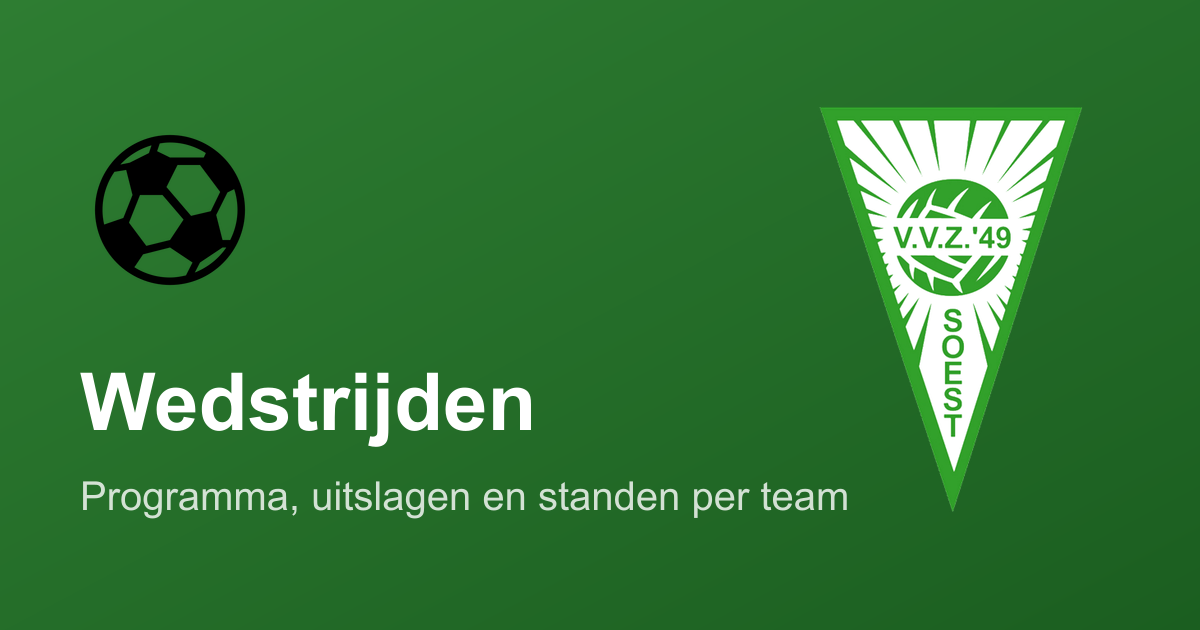
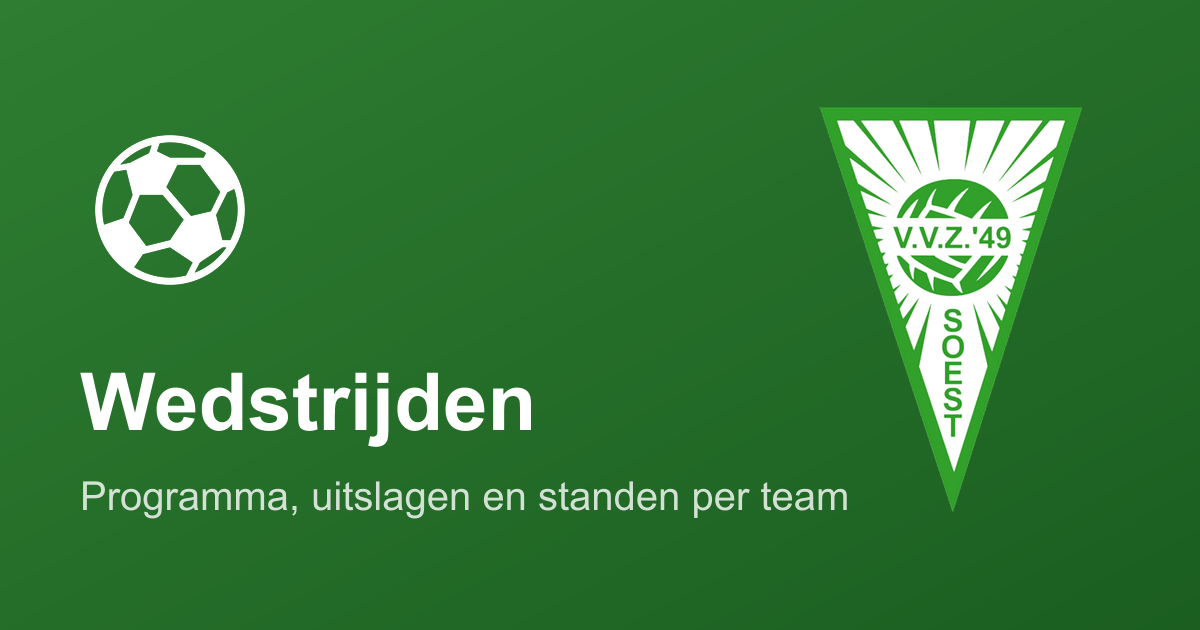
Fix voetbal-icoon kleur: homepage filter en witte bal in OG-image
- Homepage: betrouwbaardere CSS filter startend vanaf brightness(0)
- OG: negate + screen blend zodat bal wit wordt op groene achtergrond

Changed region(s): [[0.0617, 0.2111, 0.2158, 0.4524]]

diff --git a/src/pages/HomePage.jsx b/src/pages/HomePage.jsx
@@ -99,7 +99,7 @@ export default function HomePage() {
               src={`${import.meta.env.BASE_URL}voetbal.png`}
               alt="Wedstrijden"
               className="w-16 h-16 group-hover:scale-110 transition-transform duration-200"
-              style={{ filter: 'invert(27%) sepia(93%) saturate(549%) hue-rotate(86deg) brightness(97%) contrast(87%)' }}
+              style={{ filter: 'brightness(0) saturate(100%) invert(26%) sepia(56%) saturate(659%) hue-rotate(86deg) brightness(98%) contrast(88%)' }}
             />
           </div>
           <div className="p-5">
